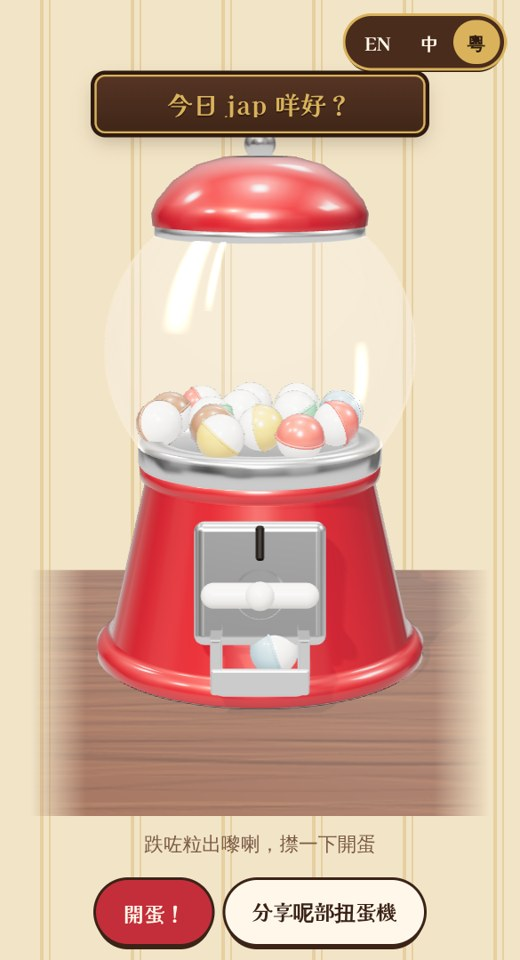
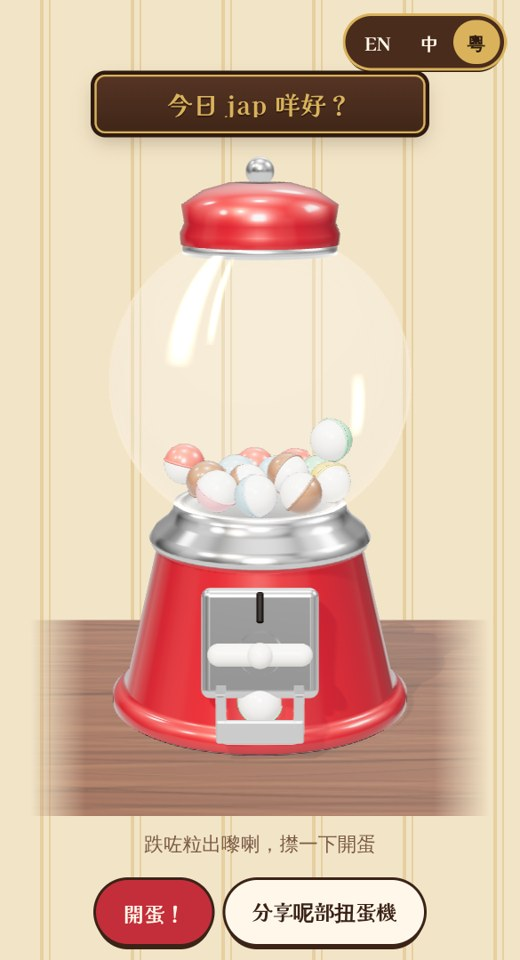
Rounder globe sitting on a small seat, like a real machine

diff --git a/machine3d.js b/machine3d.js
@@ -9,9 +9,10 @@ import * as CANNON from 'cannon-es';
 const reduceMotion = matchMedia('(prefers-reduced-motion: reduce)').matches;
 
 /* ---------------- sizes (1 unit ≈ 1 cm) ---------------- */
-const GLOBE = { y: 16.4, r: 8 };          // glass globe centre & radius
+const SEAT = { y: 12.1, r: 4.6 };         // the small round opening the globe sits on
+const GLOBE = { r: 8.6, y: 12.1 + Math.sqrt(8.6 ** 2 - 4.6 ** 2) };   // glass globe radius & centre
 const CAP_R = 1.2;                         // capsule radius
-const FLOOR_Y = 11.5;                      // floor inside the globe (the collar hides what's below)
+const FLOOR_Y = 12.3;                      // stops capsules falling through the opening; the round bowl of glass holds them
 const TRAY = { y: 1.55, zBack: 6.6, zFront: 9.6, half: 1.9 };   // outlet tray
 
 /** A painted wood-grain texture for the counter (no image files needed). */
@@ -96,9 +97,9 @@ export function createMachine(canvas) {
   machine.add(lathe([[0, 0], [8.4, 0], [8.7, 0.25], [8.7, 0.9], [8.3, 1.25], [7.9, 1.4],
     [6.0, 9.6], [6.25, 9.8], [6.3, 10.4], [5.9, 10.6], [0, 10.6]], lacquer));
   // collar ring the globe sits on
-  machine.add(lathe([[0, 10.3], [6.15, 10.3], [6.35, 10.6], [6.35, 11.6], [6.0, 11.9], [5.2, 11.9], [5.2, 11.2], [0, 11.2]], chrome));
+  machine.add(lathe([[0, 9.9], [6.3, 9.9], [6.45, 10.25], [6.1, 10.8], [5.4, 11.35], [5.05, 11.9], [4.95, 12.35], [4.4, 12.35], [4.4, 11.6], [0, 11.6]], chrome));
   // lid on top of the globe
-  const NECK = 4.9;                                              // the globe's opening at the top
+  const NECK = 3.9;                                              // the globe's opening at the top
   const lidY = GLOBE.y + Math.sqrt(GLOBE.r ** 2 - NECK ** 2) - 0.15;
   machine.add(lathe([[NECK - 0.1, -0.25], [NECK + 0.45, -0.25], [NECK + 0.45, 0.35], [NECK - 0.1, 0.35]].map(([x, y]) => [x, y + lidY]), chrome));
   machine.add(lathe([[NECK + 0.55, 0.3], [NECK + 0.6, 0.9], [NECK + 0.35, 1.5], [4.4, 2.5], [3.2, 3.3], [1.8, 3.7], [0, 3.8], [0, 0.3]].map(([x, y]) => [x, y + lidY]), lacquer));
@@ -299,7 +300,7 @@ export function createMachine(canvas) {
       const [gone] = inGlobe.splice(lowest, 1);
       world.removeBody(gone.body);
       const from = gone.mesh.position.clone();
-      await tween(reduceMotion ? 1 : 260, (p) => { gone.mesh.position.lerpVectors(from, new THREE.Vector3(0, 9.5, 0), p); gone.mesh.scale.setScalar(1 - p * 0.3); });
+      await tween(reduceMotion ? 1 : 260, (p) => { gone.mesh.position.lerpVectors(from, new THREE.Vector3(0, SEAT.y - 1.5, 0), p); gone.mesh.scale.setScalar(1 - p * 0.3); });
       machine.remove(gone.mesh);
     } else if (!reduceMotion) {
       await new Promise((r) => setTimeout(r, 200));
@@ -347,12 +348,12 @@ export function createMachine(canvas) {
     renderer.setSize(cw, ch, false);
     camera.aspect = cw / ch;
     // keep the whole machine in view on narrow screens
-    const fitH = 38, fitW = 22;
+    const fitH = 42, fitW = 23;
     const vFov = THREE.MathUtils.degToRad(camera.fov);
     const distH = fitH / 2 / Math.tan(vFov / 2), distW = fitW / 2 / Math.tan(vFov / 2) / camera.aspect;
     const dist = Math.max(distH, distW);
-    camera.position.set(0, 12 + dist * 0.2, dist);
-    camera.lookAt(0, 11.4, 0);
+    camera.position.set(0, 15.7 + dist * 0.2, dist);
+    camera.lookAt(0, 15.6, 0);
     camera.updateProjectionMatrix();
     wake(0.1);
   }
